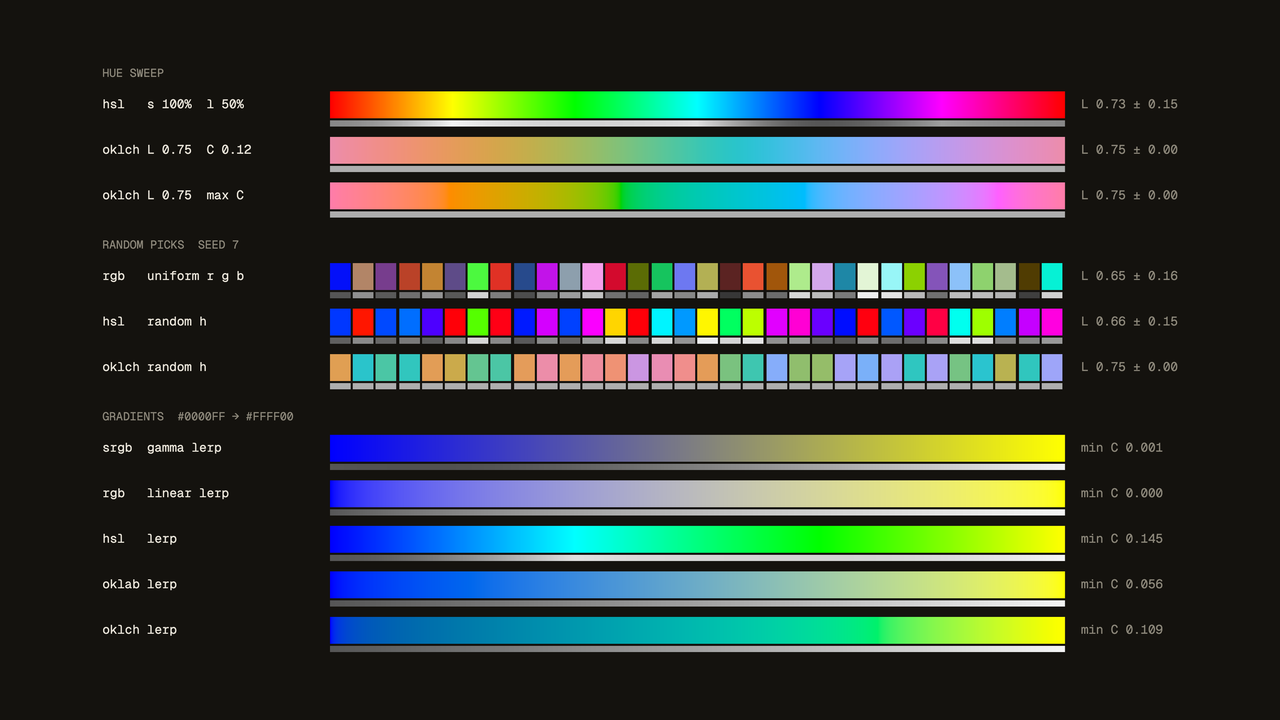
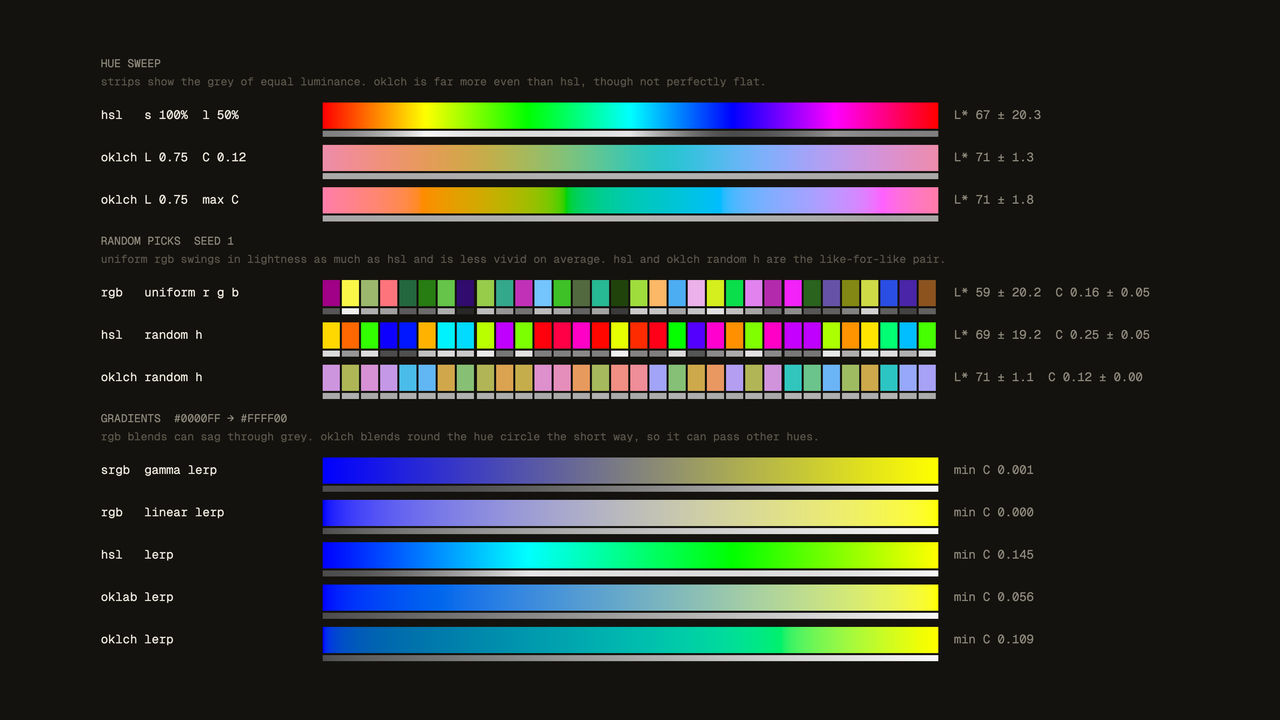
tweaks to perceptual color example

diff --git a/examples/src/example-perceptual-color.ts b/examples/src/example-perceptual-color.ts
@@ -4,10 +4,11 @@ import { createInfo } from './common/info';
 import { palette } from './common/theme';
 
 // RGB and HSL against Oklab and Oklch, drawn to a 2D canvas. Under every band sits a thin strip of
-// its perceived lightness (Oklab L as a neutral grey), so the difference is visible at a glance:
-// hue sweeps and random picks in HSL and RGB swing between bright and dark, while Oklch holds an
-// even lightness. Gradients compare blending in each space, where RGB and HSL fall through grey
-// or swing in brightness and Oklab and Oklch stay even. Every colour comes from math/color.
+// its lightness, drawn as the grey of equal luminance and summarised as CIE L*. That ruler comes
+// from luminance alone, not from Oklab, so it is a fair judge of the Oklab based rows. Hue sweeps
+// and random hues in HSL swing between bright and dark while Oklch stays far more even. Random RGB
+// swings in lightness as much as HSL and is less vivid on average. Gradients compare blending in
+// each space. Click anywhere to reroll the random picks and the gradient endpoints.
 
 const MONO = '"Geist Mono", ui-monospace, monospace';
 const SWATCHES = 32;
@@ -15,20 +16,25 @@ const SWATCHES = 32;
 // layout metrics (CSS pixels)
 const MARGIN = 32;
 const LABEL_W = 220;
-const STAT_W = 150;
+const STAT_W = 250;
 const BAND_H = 26;
 const STRIP_H = 6;
-const ROW_GAP = 10;
-const HEADER_H = 34;
+const ROW_GAP = 8;
+const HEADER_H = 50;
 
 type Row = { label: string; colors: Color[]; stat: string; discrete: boolean };
-type Section = { title: string; rows: Row[] };
+type Section = { title: string; caption: string; rows: Row[] };
 
-const _lab = oklab.create();
 const _lch = oklch.create();
 
+/** CIE L* (0 to 100) from relative luminance, independent of Oklab. */
 function lightness(c: Color): number {
-    return oklab.fromColor(_lab, c)[0];
+    const y = Math.max(color.luminance(c), 0);
+    return y > 216 / 24389 ? 116 * Math.cbrt(y) - 16 : (24389 / 27) * y;
+}
+
+function chroma(c: Color): number {
+    return oklch.fromColor(_lch, c)[1];
 }
 
 function lightnessStat(colors: Color[]): string {
@@ -37,12 +43,21 @@ function lightnessStat(colors: Color[]): string {
     const mean = sum / colors.length;
     let variance = 0;
     for (const c of colors) variance += (lightness(c) - mean) ** 2;
-    return `L ${mean.toFixed(2)} ± ${Math.sqrt(variance / colors.length).toFixed(2)}`;
+    return `L* ${mean.toFixed(0)} ± ${Math.sqrt(variance / colors.length).toFixed(1)}`;
+}
+
+function chromaStat(colors: Color[]): string {
+    let sum = 0;
+    for (const c of colors) sum += chroma(c);
+    const mean = sum / colors.length;
+    let variance = 0;
+    for (const c of colors) variance += (chroma(c) - mean) ** 2;
+    return `C ${mean.toFixed(2)} ± ${Math.sqrt(variance / colors.length).toFixed(2)}`;
 }
 
 function minChromaStat(colors: Color[]): string {
     let min = Infinity;
-    for (const c of colors) min = Math.min(min, oklch.fromColor(_lch, c)[1]);
+    for (const c of colors) min = Math.min(min, chroma(c));
     return `min C ${min.toFixed(3)}`;
 }
 
@@ -62,6 +77,7 @@ function hueSection(n: number): Section {
     ];
     return {
         title: 'hue sweep',
+        caption: 'strips show the grey of equal luminance. oklch is far more even than hsl, though not perfectly flat.',
         rows: rows.map(([label, at]) => {
             const colors = sweep(n, at);
             return { label, colors, stat: lightnessStat(colors), discrete: false };
@@ -71,11 +87,9 @@ function hueSection(n: number): Section {
 
 /* random picks */
 
-let seed = 7;
+let seed = 1;
 
-function randomSection(): Section {
-    const state = mulberry32.create(seed);
-    const rand = () => mulberry32.sample(state);
+function randomSection(rand: () => number): Section {
     const rows: [string, (out: Color) => Color][] = [
         ['rgb   uniform r g b', (out) => color.setFromSRGB(out, [rand(), rand(), rand()])],
         ['hsl   random h', (out) => hsl.toColor(out, [rand(), 1, 0.5])],
@@ -83,37 +97,24 @@ function randomSection(): Section {
     ];
     return {
         title: `random picks  seed ${seed}`,
+        caption: 'uniform rgb swings in lightness as much as hsl and is less vivid on average. hsl and oklch random h are the like-for-like pair.',
         rows: rows.map(([label, pick]) => {
             const colors: Color[] = [];
             for (let i = 0; i < SWATCHES; i++) colors.push(pick(color.create()));
-            return { label, colors, stat: lightnessStat(colors), discrete: true };
+            return { label, colors, stat: `${lightnessStat(colors)}  ${chromaStat(colors)}`, discrete: true };
         }),
     };
 }
 
 /* gradients */
 
-const PRESETS: [Color, Color][] = [
-    [
-        [0, 0, 1],
-        [1, 1, 0],
-    ],
-    [
-        [1, 1, 1],
-        [0, 0, 1],
-    ],
-    [
-        [1, 0, 1],
-        [0, 1, 0],
-    ],
-    [
-        [0, 0, 0],
-        [1, 1, 1],
-    ],
-];
-let preset = 0;
-const stopA = color.clone(PRESETS[0][0]);
-const stopB = color.clone(PRESETS[0][1]);
+// the first gradient is the classic blue to yellow, rerolls pick two random vivid colours
+const stopA: Color = [0, 0, 1];
+const stopB: Color = [1, 1, 0];
+
+function randomStop(out: Color, rand: () => number): Color {
+    return oklch.toColorInGamut(out, [0.45 + rand() * 0.45, 0.4, rand() * 360]);
+}
 
 function gradientSection(n: number): Section {
     const srgbA = color.toSRGB([0, 0, 0], stopA);
@@ -144,6 +145,7 @@ function gradientSection(n: number): Section {
     ];
     return {
         title: `gradients  #${color.toHexString(stopA)} → #${color.toHexString(stopB)}`,
+        caption: 'rgb blends can sag through grey. oklch blends round the hue circle the short way, so it can pass other hues.',
         rows: rows.map(([label, at]) => {
             const colors = sweep(n, at);
             return { label, colors, stat: minChromaStat(colors), discrete: false };
@@ -159,17 +161,13 @@ document.body.appendChild(canvas);
 const ctx = canvas.getContext('2d') as CanvasRenderingContext2D;
 
 const info = createInfo();
-info.innerHTML =
-    'hold <b>space</b> to see perceived lightness only<br><b>r</b> reroll · <b>g</b> next gradient<br>click a colour to start a gradient there, shift+click to end it';
+info.innerHTML = 'click anywhere to reroll';
+canvas.style.cursor = 'pointer';
 
-let showLightness = false;
 let sections: Section[] = [];
 let originX = 0;
 let originY = 0;
 let bandW = 0;
-
-// where each band was drawn, for picking colours with the pointer
-const hits: { x: number; y: number; w: number; row: Row }[] = [];
 
 function layout() {
     const w = window.innerWidth;
@@ -188,7 +186,9 @@ function layout() {
 }
 
 function rebuild() {
-    sections = [hueSection(bandW), randomSection(), gradientSection(bandW)];
+    const state = mulberry32.create(seed);
+    const rand = () => mulberry32.sample(state);
+    sections = [hueSection(bandW), randomSection(rand), gradientSection(bandW)];
     const rows = sections.reduce((n, s) => n + s.rows.length, 0);
     const blockH = sections.length * HEADER_H + rows * (BAND_H + 2 + STRIP_H + ROW_GAP);
     originY = Math.max(MARGIN, Math.round((window.innerHeight - blockH) / 2));
@@ -197,44 +197,37 @@ function rebuild() {
 
 const _grey = color.create();
 
-function fillColor(c: Color) {
-    if (showLightness) {
-        const l = lightness(c);
-        ctx.fillStyle = color.toCSS(oklab.toColor(_grey, [l, 0, 0]));
-    } else {
-        ctx.fillStyle = color.toCSS(c);
-    }
+function fillColor(c: Color, asLightness: boolean) {
+    ctx.fillStyle = color.toCSS(asLightness ? color.setScalar(_grey, color.luminance(c)) : c);
 }
 
 function drawBand(row: Row, x: number, y: number, h: number, asLightness: boolean) {
     const n = row.colors.length;
-    const prev = showLightness;
-    showLightness = showLightness || asLightness;
     if (row.discrete) {
         const cell = bandW / n;
         for (let i = 0; i < n; i++) {
-            fillColor(row.colors[i]);
+            fillColor(row.colors[i], asLightness);
             ctx.fillRect(Math.round(x + i * cell), y, Math.max(1, Math.round(cell) - 2), h);
         }
     } else {
         for (let i = 0; i < n; i++) {
-            fillColor(row.colors[i]);
+            fillColor(row.colors[i], asLightness);
             ctx.fillRect(x + i, y, 1.5, h);
         }
     }
-    showLightness = prev;
 }
 
 function draw() {
     ctx.clearRect(0, 0, window.innerWidth, window.innerHeight);
     ctx.textBaseline = 'middle';
-    hits.length = 0;
 
     let y = originY;
     for (const section of sections) {
         ctx.fillStyle = palette.muted;
         ctx.font = `11px ${MONO}`;
-        ctx.fillText(section.title.toUpperCase(), originX, y + HEADER_H / 2);
+        ctx.fillText(section.title.toUpperCase(), originX, y + 12);
+        ctx.fillStyle = palette.dim;
+        ctx.fillText(section.caption, originX, y + 30);
         y += HEADER_H;
 
         for (const row of section.rows) {
@@ -245,7 +238,6 @@ function draw() {
 
             drawBand(row, bandX, y, BAND_H, false);
             drawBand(row, bandX, y + BAND_H + 2, STRIP_H, true);
-            hits.push({ x: bandX, y, w: bandW, row });
 
             ctx.fillStyle = palette.muted;
             ctx.fillText(row.stat, bandX + bandW + 16, y + BAND_H / 2);
@@ -258,39 +250,16 @@ function draw() {
 
 window.addEventListener('resize', layout);
 
-window.addEventListener('keydown', (e) => {
-    if (e.key === ' ' && !showLightness) {
-        showLightness = true;
-        draw();
-        e.preventDefault();
-    } else if (e.key === 'r') {
-        seed = (seed * 48271) % 2147483647;
-        rebuild();
-    } else if (e.key === 'g') {
-        preset = (preset + 1) % PRESETS.length;
-        color.copy(stopA, PRESETS[preset][0]);
-        color.copy(stopB, PRESETS[preset][1]);
-        rebuild();
-    }
-});
+function reroll() {
+    seed++;
+    const state = mulberry32.create(seed * 7919);
+    const rand = () => mulberry32.sample(state);
+    randomStop(stopA, rand);
+    randomStop(stopB, rand);
+    rebuild();
+}
 
-window.addEventListener('keyup', (e) => {
-    if (e.key === ' ') {
-        showLightness = false;
-        draw();
-    }
-});
-
-canvas.addEventListener('pointerdown', (e) => {
-    for (const hit of hits) {
-        if (e.clientY < hit.y || e.clientY > hit.y + BAND_H || e.clientX < hit.x || e.clientX >= hit.x + hit.w) continue;
-        const n = hit.row.colors.length;
-        const i = Math.min(n - 1, Math.floor(((e.clientX - hit.x) / hit.w) * n));
-        color.copy(e.shiftKey ? stopB : stopA, hit.row.colors[i]);
-        rebuild();
-        return;
-    }
-});
+canvas.addEventListener('pointerdown', reroll);
 
 await document.fonts.ready;
 layout();
